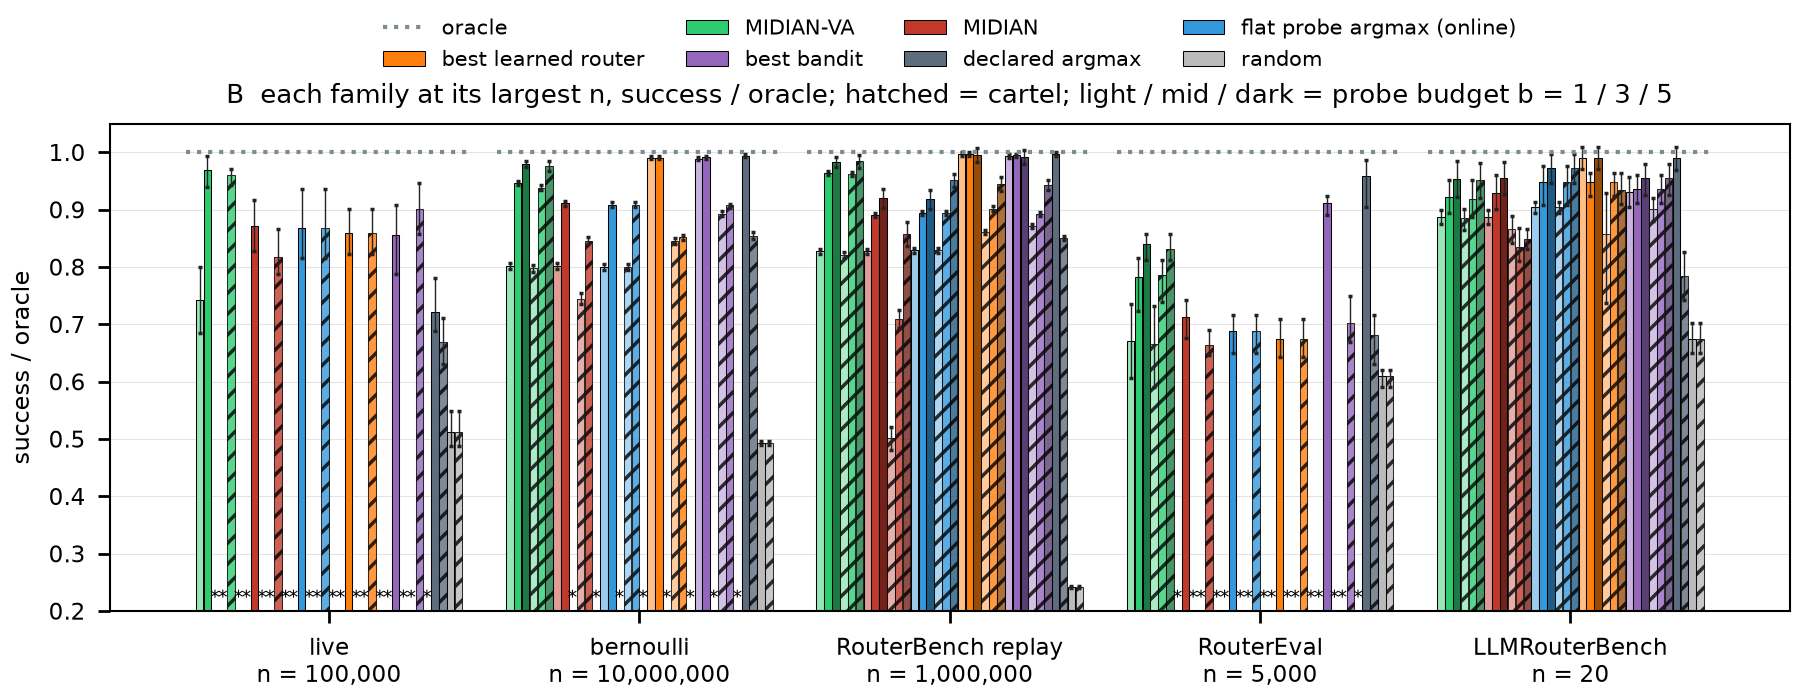
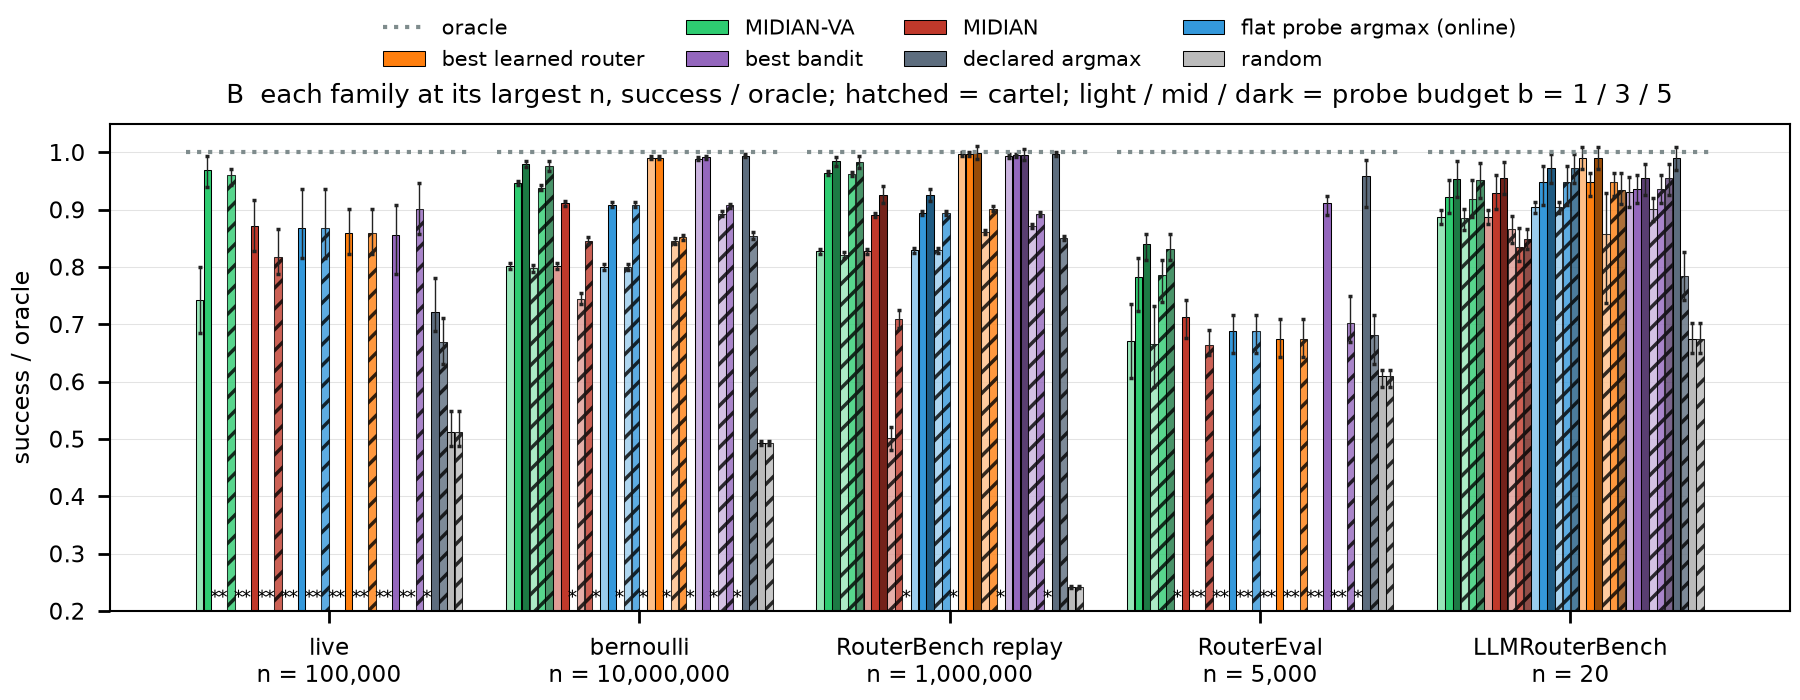
condensed A / B: shape-pooled replay budget cells use only seeds with every shape (a partial run had compared different populations)

Changed region(s): [[0.4978, 0.24, 0.5911, 0.87]]

diff --git a/scripts/condensed_figs.py b/scripts/condensed_figs.py
@@ -179,7 +179,13 @@ def add_budgets(C):
             for (n, b, beta, ls, l), q in df.groupby(["n", "b", "beta", "liar_select", "label"]):
                 key = (fam, grp, int(n), regime(beta, ls))
                 if key not in C or int(b) not in (1, 5) or l == "oracle" or excluded(l): continue
-                per = q.groupby("seed").success.mean(); lo, hi = ci(per.values)
+                if grp == "all shapes pooled":            # pooled shapes: only seeds that have EVERY shape, else a partial
+                    by = q.groupby(["seed", "dist"]).success.mean().unstack()   # run compares different populations
+                    by = by.dropna() if by.shape[1] == 3 else by.iloc[0:0]
+                    if by.empty: continue
+                    per = by.mean(axis=1)
+                else: per = q.groupby("seed").success.mean()
+                lo, hi = ci(per.values)
                 C[key]["raw"].setdefault(int(b), {})[l] = (float(per.mean()), float(lo), float(hi))
     names = {"beta=0 (no liars)": "beta0", "beta=0.5 CARTEL (low-skill-first)": "cartel"}
     for fam, grp, g in (("bernoulli", "specialist", "bernoulli_scale_v5"), ("replay", "all shapes pooled", "replay_scale_v5")):
